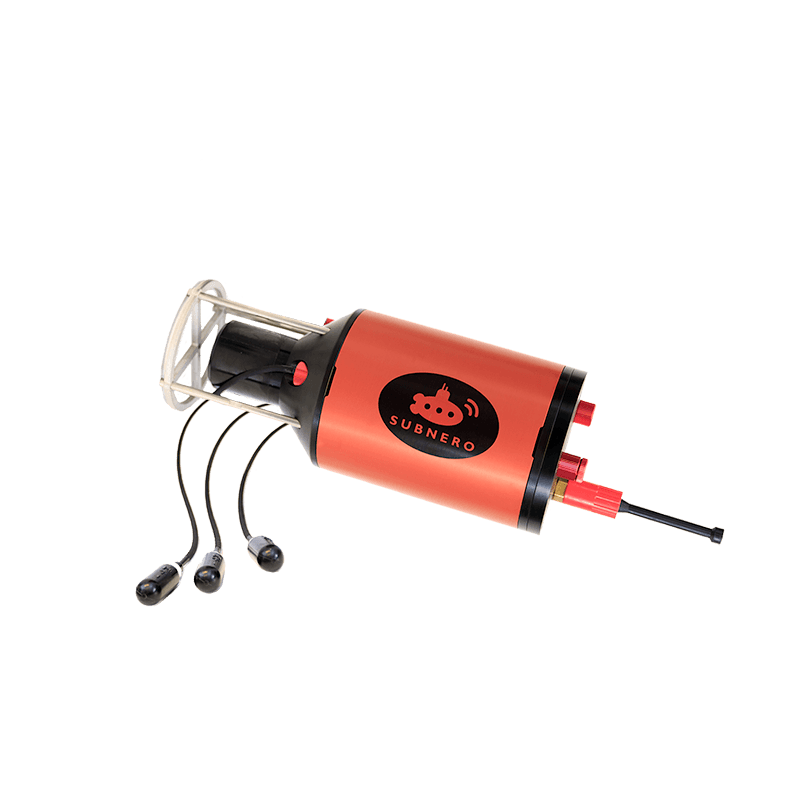
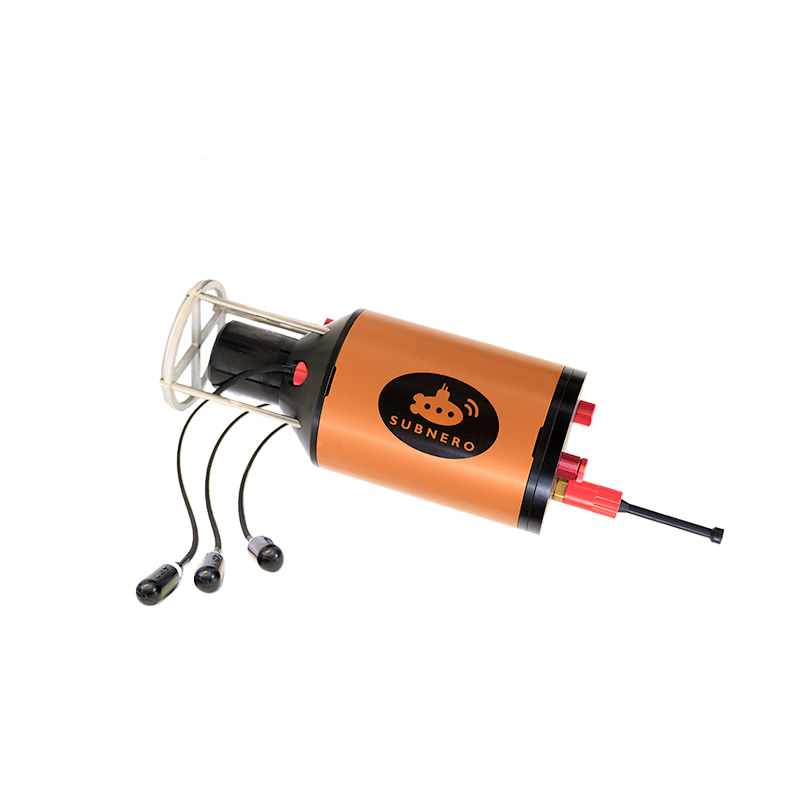
Updated more images to gen4

Changed region(s): [[0.375, 0.375, 0.7188, 0.6562]]

diff --git a/products/wnc-m25mss4+xch.md b/products/wnc-m25mss4+xch.md
@@ -10,15 +10,12 @@ section_id: products
 
 ## Multi-channel Configuration Modem
 
-Subnero's multi-channel modems, provide the capability to record synchronized signals from multiple hydrophones, in addition to the regular communication channel thereby enabling a plethora of new applications.
-
-<div class="flex-video video">
-  <iframe src="https://www.youtube.com/embed/1OtxLh8z0zQ" frameborder="0" allow="accelerometer; autoplay; encrypted-media; gyroscope; picture-in-picture" allowfullscreen></iframe>
-</div>
+Subnero's multi-channel modems utilize advanced spatial diversity combining techniques to extract data from multiple receiving channels, enabling exceptional communication performance even in the most challenging conditions. Beyond this, these modems possess the unique capability to record synchronized raw signals from multiple hydrophones, allowing for a diverse range of innovative applications such as localization and passive acoustic monitoring.
 
 ## Key Features
 
 - Multiple synchronized receiving channels for enhanced communication performance.
+- 2x communication performance as compared to the [single channel]({{site.baseurl}}/products/wnc-m25mss4.html) equivalents.
 - Ability to choose between 1 - 4 additional receiving channels.
 - Access to raw signals from all receiving channels.
 - Ability to develop and deploy user defined applications using [UnetStack]({{ site.baseurl }}{%link products/unet.md %}). Examples are:
@@ -32,10 +29,10 @@ Subnero's multi-channel modems, provide the capability to record synchronized si
 <div class='full' style='background: #f5f5f5'>
 
   <div class ='media product' >
-    <img class = "align-self-start mr-3" alt="" src="{{site.baseurl}}/images/boxart-wnc-multichannel2.jpg"/>
+    <img class = "align-self-start mr-3" alt="" src="{{site.baseurl}}/images/boxart-wnc-multichannel.png"/>
     <div class='media-body product product-content'>
-    <h3 style="text-transform: none;" id="surface">Standalone Configuration with Multiple Receiving Channels</h3>
-          <p>A modem in the standalone configuration (SC) with multiple receiving channels, operates on external power source and combines a versatile acoustic modem with a multi-channel acoustic recorder, ideal for long term deployments.</p>
+    <h3 style="text-transform: none;" id="surface">Multi-channel Configuration</h3>
+          <p>With multiple synchronous channels, a multi-channel modem can effectively process and optimize data transfer in a given environment, ensuring the best possible communication performance. This configuration improves the speed and reliability of communication while reducing errors and interference.</p>
     </div>
   </div>
 </div>
@@ -50,14 +47,14 @@ Subnero's multi-channel modems, provide the capability to record synchronized si
 
 ### Modem
 
-- <a href="{{site.baseurl}}/products/wnc-m25mss3.html#s_techspec">Silver edition modem technical specifications</a>
+- <a href="{{site.baseurl}}/products/wnc-m25mss4.html#s_techspec">Silver edition modem technical specifications</a>
 
 ### Recorder
 
 | Feature                                | Details                                   |
 | -------------------------------------- | ----------------------------------------- |
-|  Additional receiving channels         | up to 4                                   |
-|  Sampling rate (per channel)           | 128 or 256 kSa/s                          |
+|  Additional receiving channels         | up to 3                                   |
+|  Sampling rate (per channel)           | upto 256 kSa/s                            |
 |  Fixed gain                            | 10 dB                                     |
 |  Programmable gain                     | 36 dB                                     |
 
@@ -89,7 +86,10 @@ Subnero's multi-channel modems, provide the capability to record synchronized si
   <label class='lbl-toggle' for='useful-links'></label>
   <div class='collapsible-content'>
     <div class="brochure-container">
-      <a href="{{site.baseurl}}/wnc/news/2021/05/12/Subnero-Multi-channel-Modems.html" target="_blank">Introducing Subnero Multi-channel Modems</a>
+      <ul>
+        <li><a href="{{site.baseurl}}/wnc/news/2021/05/12/Subnero-Multi-channel-Modems.html" target="_blank">Introducing Subnero Multi-channel Modems</a></li>
+        <li><a href="https://lsc-pagepro.mydigitalpublication.com/publication/?m=60787&i=727818&p=17&ver=html5" target="_blank">Multichannel Modems The'Swiss Army Knife'of Acoustic Modems in the Maritime Domain, SEA TECHNOLOGY 62.11 (2021): 17-21.</a></li>
+      </ul>
     </div>
 </div>
 </div>

diff --git a/products/wnc-m25mss4.md b/products/wnc-m25mss4.md
@@ -2,7 +2,7 @@
 layout: page
 title: WNC-M25MSS4
 banner : images/banner-silver.jpg
-thumbnail : images/thumbnail-wnc-m25mss3.png
+thumbnail : images/thumbnail-wnc-m25mss4.png
 excerpt: Subnero silver edition underwater acoustic modems are the workhorse communication nodes for use in general commercial deployments.
 categories: modem
 section_id: products
@@ -15,7 +15,7 @@ Subnero's silver edition underwater modem is the workhorse communication node to
 ## Key Features
 
 - Up to 15 kbps data rate\*.
-- Up to 5 km communication range in tropical waters.
+- Up to 5 km communication range (horizontal & vertical) in tropical waters.
 - Ranging functionality with 0.1 m precision.
 - Doppler resilience of ±4 knots or better.
 - Support for coherent and incoherent communication schemes.
@@ -30,10 +30,10 @@ Subnero's silver edition underwater modem is the workhorse communication node to
 <div class='full' style='background: #f5f5f5'>
 
   <div class ='media product' >
-    <img class = "align-self-start mr-3" alt="" src="{{site.baseurl}}/images/boxart-wnc-m25mss3.png"/>
+    <img class = "align-self-start mr-3" alt="" src="{{site.baseurl}}/images/boxart-wnc-m25mss4.png"/>
     <div class='media-body product product-content'>
     <h3 style="text-transform: none;" id="surface">Standalone Configuration</h3>
-        <p>A modem in the standalone configuration (SC) operates on external power source such as a battery (for underwater deployments) or a power supply (for deployments from the water surface).</p>
+        <p>The standalone configuration (SC) is designed with a pressure housing to support different deployment depths and to function on an external power source, which could be a battery for underwater deployments or a power supply when deployed from the water surface. This configuration is optimized for maximum flexibility and reliability in a wide range of deployment scenarios, ensuring seamless and uninterrupted data transmission even in challenging environments.</p>
     </div>
   </div>
 </div>

diff --git a/products/wnc-m25mso4.md b/products/wnc-m25mso4.md
@@ -2,7 +2,7 @@
 layout: page
 title: WNC-M25MSO4
 banner : images/banner-silver.jpg
-thumbnail : images/thumbnail-wnc-m25mse3.png
+thumbnail : images/thumbnail-wnc-m25mse4.png
 excerpt: Subnero silver edition of underwater acoustic modems are the workhorse communication nodes for use in general commercial deployments.
 categories: modem
 section_id: products
@@ -15,7 +15,7 @@ Subnero's silver edition underwater modem is the workhorse communication node to
 ## Key Features
 
 - Up to 15 kbps data rate\*.
-- Up to 5 km communication range in tropical waters.
+- Up to 5 km communication range (horizontal & vertical) in tropical waters.
 - Ranging functionality with 0.1 m precision.
 - Doppler resilience of ±4 knots or better.
 - Support for coherent and incoherent communication schemes.
@@ -29,10 +29,10 @@ Subnero's silver edition underwater modem is the workhorse communication node to
 <div class='full' style='background: #f5f5f5'>
 
   <div class ='media product' >
-    <img class = "align-self-start mr-3" alt="" src="{{site.baseurl}}/images/boxart-wnc-m25mse3.jpg"/>
+    <img class = "align-self-start mr-3" alt="" src="{{site.baseurl}}/images/boxart-wnc-m25mse4.png"/>
     <div class='media-body product product-content'>
     <h3 style="text-transform: none;" id="surface">OEM Configuration</h3>
-        <p>Designed with ease of integration and flexibility as the primary focus, the OEM configuration (OC) is ideal for integration to bigger platforms such as AUV, ROVs or sensors. Available with pressure hull option for free flooded platforms.</p>
+        <p>The OEM configuration (OC) is tailored to facilitate seamless integration and adaptability, making it a top pick for incorporation into larger platforms, such as AUVs, ROVs, and sensors. Additionally, for free flooded platforms, it comes equipped with a pressure hull option.</p>
     </div>
   </div>
 </div>

diff --git a/products/wnc-m25mps3.md b/products/wnc-m25mps3.md
@@ -14,7 +14,7 @@ Delivering performance under the toughest environmental conditions, Subnero's pl
 
 ## Key Features
 - Up to 15 kbps data rate\*.
-- Up to 5 km communication range in tropical waters.
+- Up to 5 km communication range (horizontal & vertical) in tropical waters.
 - Ranging functionality with 0.1 m precision.
 - Doppler resilience of ±4 knots or better.
 - Support for coherent and incoherent communication schemes.
@@ -35,7 +35,7 @@ Delivering performance under the toughest environmental conditions, Subnero's pl
     <img class = "align-self-start mr-3" alt="" src="{{site.baseurl}}/images/boxart-wnc-m25mps3.png"/>
     <div class='media-body product product-content'>
     <h3 style="text-transform: none;" id="embedded">Standalone Configuration</h3>
-          <h4 style="text-transform: none;">WNC-M25MPE3</h4>
+          <h4 style="text-transform: none;">WNC-M25MPS3</h4>
           <p>A modem in the standalone configuration (SC) operates on external power source such as a battery (for underwater deployments) or a power supply (for deployments from the water surface).</p>
     </div>
   </div>
@@ -58,7 +58,6 @@ Delivering performance under the toughest environmental conditions, Subnero's pl
 | JANUS support                          | Yes, subject to operating frequency band  |
 | Carrier frequency                      | 24 kHz                                    |
 | Bandwidth                              | 12 kHz (20 - 32 kHz)                      |
-| Source level                           | 185 dB re 1 µPa @ 1 m rms (nominal)       |
 
 ### Software
 

diff --git a/products/index.md b/products/index.md
@@ -16,7 +16,7 @@ excerpt: Subnero's underwater acoustic modems with UnetStack for underwater wire
 <div class='full'>
   {% assign product_pages = site.pages | where:"categories","underwatermodem" %}
   {% for page in product_pages %}
-  <div class='category-container bg-grey'>
+  <div class='category-container bg-white'>
     <div class='category-row'>
         <div class='large-3 columns category-img'>
           <a href='{{site.baseurl}}/products/modem.html?&section=M25Mseries'><img alt="" class='round-border-20' src="{{site.baseurl}}/{{page.thumbnail}}"/></a>
@@ -49,7 +49,7 @@ excerpt: Subnero's underwater acoustic modems with UnetStack for underwater wire
   {% endfor %}
   {% assign product_pages = site.pages | where:"categories","unet" %}
   {% for page in product_pages %}
-  <div class='category-container'>
+  <div class='category-container bg-grey'>
     <div class='category-row'>
       <div class='large-3 columns category-img'>
         <a href='{{site.baseurl}}/products/unet'><img alt="" class='round-border-20' src="{{site.baseurl}}/{{page.thumbnail}}"/></a>

diff --git a/products/wnc-m25mrs4.md b/products/wnc-m25mrs4.md
@@ -31,7 +31,7 @@ Our research edition modems are designed to bridge the gap between developing ap
     <img class = "align-self-start mr-3" alt="" src="{{site.baseurl}}/images/boxart-wnc-m25mrs4.png"/>
     <div class='media-body product product-content'>
     <h3 style="text-transform: none;" id="surface">Standalone Configuration</h3>
-        <p>A modem in the standalone configuration (SC) operates on external power source such as a battery (for underwater deployments) or a power supply (for deployments from the water surface).</p>
+        <p>The standalone configuration (SC) is designed with a pressure housing to support different deployment depths and to function on an external power source, which could be a battery for underwater deployments or a power supply when deployed from the water surface. This configuration is optimized for maximum flexibility and reliability in a wide range of deployment scenarios, ensuring seamless and uninterrupted data transmission even in challenging environments.</p>
     </div>
   </div>
 </div>

diff --git a/products/wnc-m25mpe3.md b/products/wnc-m25mpe3.md
@@ -14,7 +14,7 @@ Delivering performance under the toughest environmental conditions, Subnero's pl
 
 ## Key Features
 - Up to 15 kbps data rate\*.
-- Up to 5 km communication range in tropical waters.
+- Up to 5 km communication range (horizontal & vertical) in tropical waters.
 - Ranging functionality with 0.1 m precision.
 - Doppler resilience of ±4 knots or better.
 - Support for coherent and incoherent communication schemes.
@@ -59,7 +59,6 @@ Delivering performance under the toughest environmental conditions, Subnero's pl
 | JANUS support                          | Yes, subject to operating frequency band  |
 | Carrier frequency                      | 24 kHz                                    |
 | Bandwidth                              | 12 kHz (20 - 32 kHz)                      |
-| Source level                           | 185 dB re 1 µPa @ 1 m rms (nominal)       |
 
 ### Software
 
